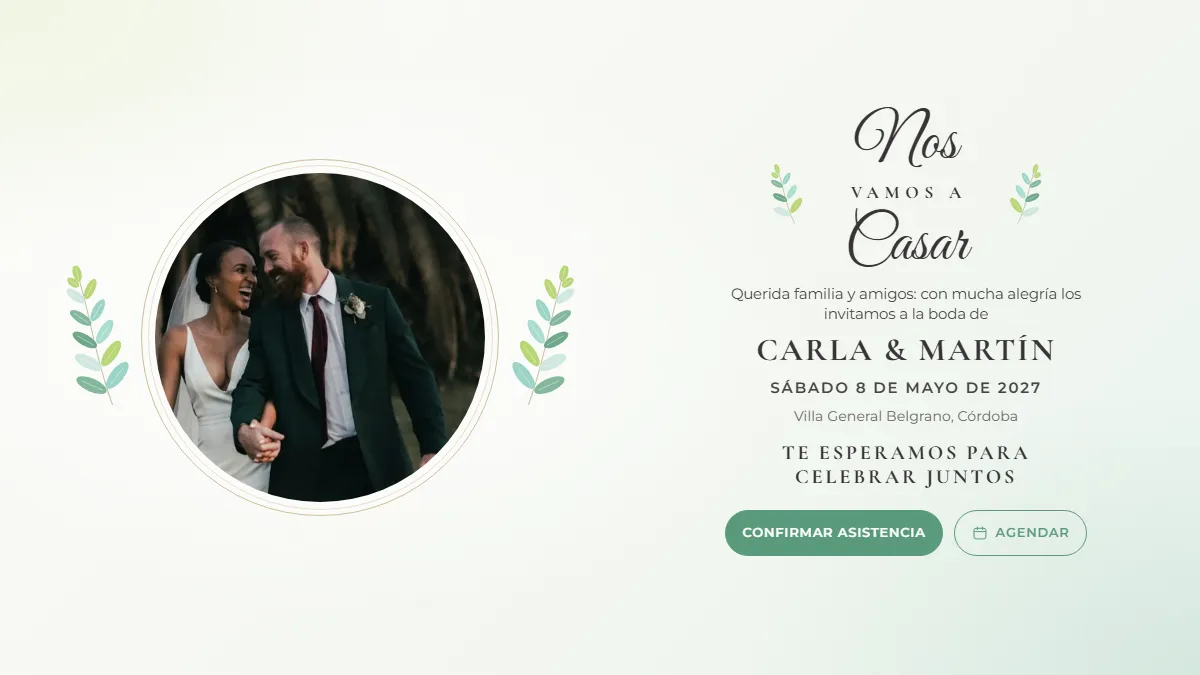
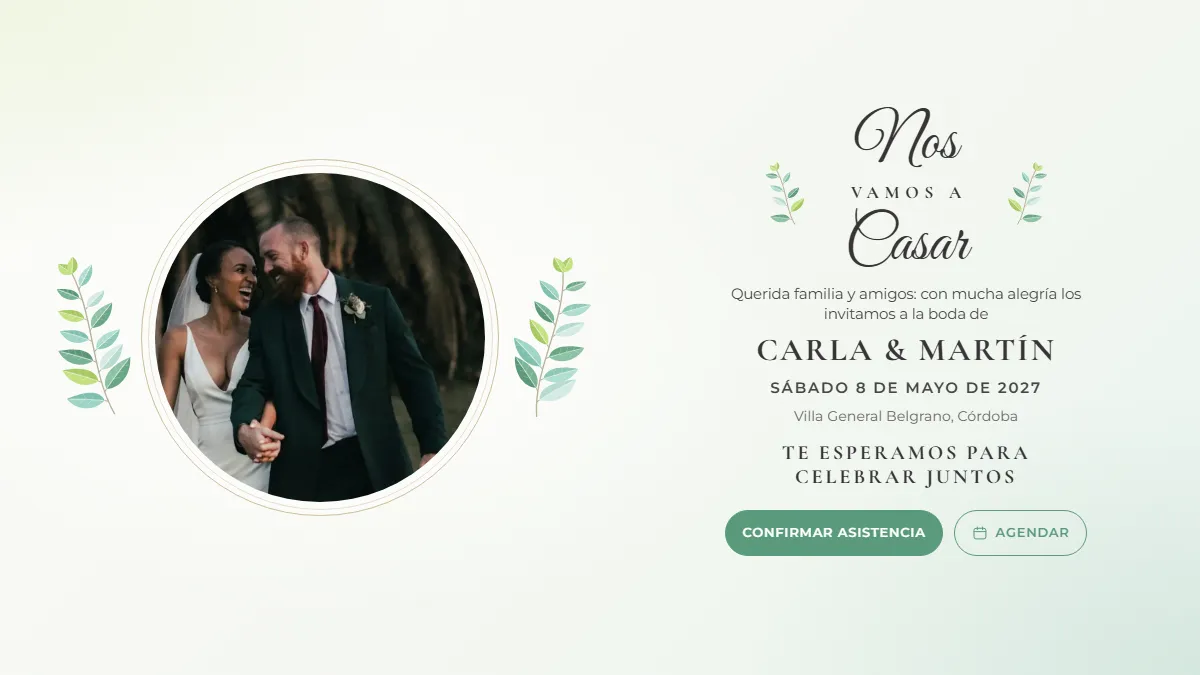
Círculo Botánico: hojas más naturales
Las hojas eran óvalos lisos en pares exactos. Ahora tienen punta y base angosta, dos
tonos partidos por la nervadura y nervaduras finas; van alternadas sobre un tallo curvo,
con tamaños e inclinaciones variadas y un brote abierto en la punta. Hay dos ramas
grandes distintas, así la de la derecha no es el espejo exacto de la izquierda.

diff --git a/modelos/botanico/index.html b/modelos/botanico/index.html
@@ -65,8 +65,9 @@
       <path d="M34 42l2 4M52 36l1 4M24 70l3 3M62 66l2 2M46 24l1 4M30 90l-3 2M58 90l3 1M20 48l-3 1"/>
     </symbol>
     <!-- Ramitos de hojas planas y esquinas doradas -->
-    <symbol id="ramito-grande" viewBox="0 0 120 180"><path d="M63,176 C56,108 64,62.99999999999999 60,10" stroke="#c7c0a8" stroke-width="1.3" fill="none" stroke-linecap="round"/><g transform="translate(59.8 159.1) rotate(218)"><ellipse cx="20" cy="0" rx="20" ry="8.1" fill="#84b89c"/><path d="M4.8,0 L32.8,0" stroke="#ffffff" stroke-opacity=".5" stroke-width=".9"/></g><g transform="translate(61.8 155.1) rotate(-38)"><ellipse cx="20" cy="0" rx="20" ry="8.1" fill="#9bd3c7"/><path d="M4.8,0 L32.8,0" stroke="#ffffff" stroke-opacity=".5" stroke-width=".9"/></g><g transform="translate(60.9 131) rotate(221)"><ellipse cx="18.4" cy="0" rx="18.4" ry="7.4" fill="#cfe7df"/><path d="M4.4,0 L30.2,0" stroke="#ffffff" stroke-opacity=".5" stroke-width=".9"/></g><g transform="translate(62.9 127) rotate(-41)"><ellipse cx="18.4" cy="0" rx="18.4" ry="7.4" fill="#b8d676"/><path d="M4.4,0 L30.2,0" stroke="#ffffff" stroke-opacity=".5" stroke-width=".9"/></g><g transform="translate(61.5 102.8) rotate(224)"><ellipse cx="16.8" cy="0" rx="16.8" ry="6.8" fill="#6fa889"/><path d="M4,0 L27.5,0" stroke="#ffffff" stroke-opacity=".5" stroke-width=".9"/></g><g transform="translate(63.5 98.8) rotate(-44)"><ellipse cx="16.8" cy="0" rx="16.8" ry="6.8" fill="#a9dccf"/><path d="M4,0 L27.5,0" stroke="#ffffff" stroke-opacity=".5" stroke-width=".9"/></g><g transform="translate(61.3 74.7) rotate(227)"><ellipse cx="15.1" cy="0" rx="15.1" ry="6.1" fill="#84b89c"/><path d="M3.6,0 L24.8,0" stroke="#ffffff" stroke-opacity=".5" stroke-width=".9"/></g><g transform="translate(63.3 70.7) rotate(-47)"><ellipse cx="15.1" cy="0" rx="15.1" ry="6.1" fill="#9bd3c7"/><path d="M3.6,0 L24.8,0" stroke="#ffffff" stroke-opacity=".5" stroke-width=".9"/></g><g transform="translate(60.4 46.5) rotate(230)"><ellipse cx="13.5" cy="0" rx="13.5" ry="5.5" fill="#cfe7df"/><path d="M3.2,0 L22.1,0" stroke="#ffffff" stroke-opacity=".5" stroke-width=".9"/></g><g transform="translate(62.4 42.5) rotate(-50)"><ellipse cx="13.5" cy="0" rx="13.5" ry="5.5" fill="#b8d676"/><path d="M3.2,0 L22.1,0" stroke="#ffffff" stroke-opacity=".5" stroke-width=".9"/></g><g transform="translate(60 20) rotate(-90)"><ellipse cx="10.5" cy="0" rx="10.5" ry="5.3" fill="#b8d676"/><path d="M2.5,0 L17.2,0" stroke="#ffffff" stroke-opacity=".5" stroke-width=".9"/></g><g transform="translate(58 26) rotate(230)"><ellipse cx="8.4" cy="0" rx="8.4" ry="4.7" fill="#b8d676"/><path d="M2,0 L13.8,0" stroke="#ffffff" stroke-opacity=".5" stroke-width=".9"/></g></symbol>
-    <symbol id="ramito-chico" viewBox="0 0 90 110"><path d="M48,106 C41,66 49,38.5 45,10" stroke="#c7c0a8" stroke-width="1.3" fill="none" stroke-linecap="round"/><g transform="translate(45.3 91.5) rotate(218)"><ellipse cx="14.8" cy="0" rx="14.8" ry="6" fill="#cfe7df"/><path d="M3.6,0 L24.3,0" stroke="#ffffff" stroke-opacity=".5" stroke-width=".9"/></g><g transform="translate(47.3 87.5) rotate(-38)"><ellipse cx="14.8" cy="0" rx="14.8" ry="6" fill="#b8d676"/><path d="M3.6,0 L24.3,0" stroke="#ffffff" stroke-opacity=".5" stroke-width=".9"/></g><g transform="translate(46.5 67.4) rotate(221)"><ellipse cx="12.8" cy="0" rx="12.8" ry="5.2" fill="#6fa889"/><path d="M3.1,0 L21.1,0" stroke="#ffffff" stroke-opacity=".5" stroke-width=".9"/></g><g transform="translate(48.5 63.4) rotate(-41)"><ellipse cx="12.8" cy="0" rx="12.8" ry="5.2" fill="#a9dccf"/><path d="M3.1,0 L21.1,0" stroke="#ffffff" stroke-opacity=".5" stroke-width=".9"/></g><g transform="translate(45.9 43.3) rotate(224)"><ellipse cx="10.9" cy="0" rx="10.9" ry="4.4" fill="#84b89c"/><path d="M2.6,0 L17.8,0" stroke="#ffffff" stroke-opacity=".5" stroke-width=".9"/></g><g transform="translate(47.9 39.3) rotate(-44)"><ellipse cx="10.9" cy="0" rx="10.9" ry="4.4" fill="#9bd3c7"/><path d="M2.6,0 L17.8,0" stroke="#ffffff" stroke-opacity=".5" stroke-width=".9"/></g><g transform="translate(45 20) rotate(-90)"><ellipse cx="8" cy="0" rx="8" ry="4" fill="#b8d676"/><path d="M1.9,0 L13.1,0" stroke="#ffffff" stroke-opacity=".5" stroke-width=".9"/></g><g transform="translate(43 26) rotate(230)"><ellipse cx="6.4" cy="0" rx="6.4" ry="3.6" fill="#b8d676"/><path d="M1.5,0 L10.5,0" stroke="#ffffff" stroke-opacity=".5" stroke-width=".9"/></g></symbol>
+    <symbol id="ramito-grande" viewBox="0 0 120 180"><path d="M66,178 C52,130 70,70 58,18" stroke="#b9b39a" stroke-width="1.5" fill="none" stroke-linecap="round"/><path d="M62.7,163.3 L59,161.6" stroke="#b9b39a" stroke-width="1.1"/><g transform="translate(59 161.6) rotate(-156)"><path d="M0,0 C7.4,-11.8 25.6,-18 41.3,-5.6 L0,0Z" fill="#9fd4c4"/><path d="M0,0 C7.4,11.8 25.6,5 41.3,-5.6 L0,0Z" fill="#7fbfae"/><path d="M1.7,0 Q20.7,-1.7 38,-5.1" stroke="#ffffff" stroke-opacity=".55" stroke-width="1" fill="none"/><path d="M12.4,-0.5 l5,-6.2 M12.4,-0.5 l5,5.6 M20.7,-1.4 l5,-6.2 M20.7,-1.4 l5,5.6 M28.9,-2.8 l5,-6.2 M28.9,-2.8 l5,5.6" stroke="#ffffff" stroke-opacity=".28" stroke-width=".7" fill="none"/></g><path d="M61.3,152.4 L64.1,149.6" stroke="#b9b39a" stroke-width="1.1"/><g transform="translate(64.1 149.6) rotate(-45.7)"><path d="M0,0 C7.8,-12.3 26.8,-8.2 43.3,4.8 L0,0Z" fill="#8cc2a2"/><path d="M0,0 C7.8,12.3 26.8,15.9 43.3,4.8 L0,0Z" fill="#6aa684"/><path d="M1.7,0 Q21.6,1.4 39.8,4.3" stroke="#ffffff" stroke-opacity=".55" stroke-width="1" fill="none"/><path d="M13,0.4 l5.2,-6.5 M13,0.4 l5.2,5.9 M21.6,1.2 l5.2,-6.5 M21.6,1.2 l5.2,5.9 M30.3,2.3 l5.2,-6.5 M30.3,2.3 l5.2,5.9" stroke="#ffffff" stroke-opacity=".28" stroke-width=".7" fill="none"/></g><path d="M60.6,141.4 L57.4,139" stroke="#b9b39a" stroke-width="1.1"/><g transform="translate(57.4 139) rotate(-143.8)"><path d="M0,0 C7.3,-11.6 25.2,-16.4 40.7,-4.2 L0,0Z" fill="#c3e07f"/><path d="M0,0 C7.3,11.6 25.2,6.3 40.7,-4.2 L0,0Z" fill="#a6c962"/><path d="M1.6,0 Q20.4,-1.3 37.5,-3.8" stroke="#ffffff" stroke-opacity=".55" stroke-width="1" fill="none"/><path d="M12.2,-0.4 l4.9,-6.1 M12.2,-0.4 l4.9,5.5 M20.4,-1.1 l4.9,-6.1 M20.4,-1.1 l4.9,5.5 M28.5,-2.1 l4.9,-6.1 M28.5,-2.1 l4.9,5.5" stroke="#ffffff" stroke-opacity=".28" stroke-width=".7" fill="none"/></g><path d="M60.4,130.1 L63.4,127.5" stroke="#b9b39a" stroke-width="1.1"/><g transform="translate(63.4 127.5) rotate(-39.6)"><path d="M0,0 C6.5,-10.4 22.6,-8.3 36.4,2.6 L0,0Z" fill="#d4ebe3"/><path d="M0,0 C6.5,10.4 22.6,11.9 36.4,2.6 L0,0Z" fill="#b5dacd"/><path d="M1.5,0 Q18.2,0.8 33.5,2.3" stroke="#ffffff" stroke-opacity=".55" stroke-width="1" fill="none"/><path d="M10.9,0.2 l4.4,-5.4 M10.9,0.2 l4.4,4.9 M18.2,0.6 l4.4,-5.4 M18.2,0.6 l4.4,4.9 M25.5,1.3 l4.4,-5.4 M25.5,1.3 l4.4,4.9" stroke="#ffffff" stroke-opacity=".28" stroke-width=".7" fill="none"/></g><path d="M60.5,118.6 L57.3,116.2" stroke="#b9b39a" stroke-width="1.1"/><g transform="translate(57.3 116.2) rotate(-143.4)"><path d="M0,0 C7.1,-11.2 24.4,-16.7 39.4,-4.9 L0,0Z" fill="#79b394"/><path d="M0,0 C7.1,11.2 24.4,5.3 39.4,-4.9 L0,0Z" fill="#5c9878"/><path d="M1.6,0 Q19.7,-1.5 36.2,-4.4" stroke="#ffffff" stroke-opacity=".55" stroke-width="1" fill="none"/><path d="M11.8,-0.4 l4.7,-5.9 M11.8,-0.4 l4.7,5.3 M19.7,-1.2 l4.7,-5.9 M19.7,-1.2 l4.7,5.3 M27.5,-2.4 l4.7,-5.9 M27.5,-2.4 l4.7,5.3" stroke="#ffffff" stroke-opacity=".28" stroke-width=".7" fill="none"/></g><path d="M60.9,107 L64.2,104.7" stroke="#b9b39a" stroke-width="1.1"/><g transform="translate(64.2 104.7) rotate(-34.4)"><path d="M0,0 C5.9,-9.4 20.5,-5.3 33,4.6 L0,0Z" fill="#b0ddd0"/><path d="M0,0 C5.9,9.4 20.5,13.1 33,4.6 L0,0Z" fill="#8ec7b6"/><path d="M1.3,0 Q16.5,1.4 30.4,4.1" stroke="#ffffff" stroke-opacity=".55" stroke-width="1" fill="none"/><path d="M9.9,0.4 l4,-4.9 M9.9,0.4 l4,4.5 M16.5,1.1 l4,-4.9 M16.5,1.1 l4,4.5 M23.1,2.2 l4,-4.9 M23.1,2.2 l4,4.5" stroke="#ffffff" stroke-opacity=".28" stroke-width=".7" fill="none"/></g><path d="M61.4,95.3 L58.3,92.8" stroke="#b9b39a" stroke-width="1.1"/><g transform="translate(58.3 92.8) rotate(-141.1)"><path d="M0,0 C5.9,-9.4 20.4,-14.6 32.9,-4.8 L0,0Z" fill="#9fd4c4"/><path d="M0,0 C5.9,9.4 20.4,3.7 32.9,-4.8 L0,0Z" fill="#7fbfae"/><path d="M1.3,0 Q16.5,-1.4 30.3,-4.3" stroke="#ffffff" stroke-opacity=".55" stroke-width="1" fill="none"/><path d="M9.9,-0.4 l4,-4.9 M9.9,-0.4 l4,4.5 M16.5,-1.2 l4,-4.9 M16.5,-1.2 l4,4.5 M23,-2.3 l4,-4.9 M23,-2.3 l4,4.5" stroke="#ffffff" stroke-opacity=".28" stroke-width=".7" fill="none"/></g><path d="M61.9,83.6 L64.9,80.8" stroke="#b9b39a" stroke-width="1.1"/><g transform="translate(64.9 80.8) rotate(-43)"><path d="M0,0 C6.4,-10.1 21.9,-7.1 35.3,3.4 L0,0Z" fill="#8cc2a2"/><path d="M0,0 C6.4,10.1 21.9,12.5 35.3,3.4 L0,0Z" fill="#6aa684"/><path d="M1.4,0 Q17.7,1 32.5,3.1" stroke="#ffffff" stroke-opacity=".55" stroke-width="1" fill="none"/><path d="M10.6,0.3 l4.2,-5.3 M10.6,0.3 l4.2,4.8 M17.7,0.9 l4.2,-5.3 M17.7,0.9 l4.2,4.8 M24.7,1.7 l4.2,-5.3 M24.7,1.7 l4.2,4.8" stroke="#ffffff" stroke-opacity=".28" stroke-width=".7" fill="none"/></g><path d="M62.3,71.8 L59.1,69.4" stroke="#b9b39a" stroke-width="1.1"/><g transform="translate(59.1 69.4) rotate(-143.5)"><path d="M0,0 C5.4,-8.6 18.6,-12.3 30,-3.3 L0,0Z" fill="#c3e07f"/><path d="M0,0 C5.4,8.6 18.6,4.5 30,-3.3 L0,0Z" fill="#a6c962"/><path d="M1.2,0 Q15,-1 27.6,-3" stroke="#ffffff" stroke-opacity=".55" stroke-width="1" fill="none"/><path d="M9,-0.3 l3.6,-4.5 M9,-0.3 l3.6,4.1 M15,-0.8 l3.6,-4.5 M15,-0.8 l3.6,4.1 M21,-1.6 l3.6,-4.5 M21,-1.6 l3.6,4.1" stroke="#ffffff" stroke-opacity=".28" stroke-width=".7" fill="none"/></g><path d="M62.4,60.1 L65.5,57.6" stroke="#b9b39a" stroke-width="1.1"/><g transform="translate(65.5 57.6) rotate(-38.9)"><path d="M0,0 C4.7,-7.5 16.2,-4.3 26.1,3.6 L0,0Z" fill="#d4ebe3"/><path d="M0,0 C4.7,7.5 16.2,10.3 26.1,3.6 L0,0Z" fill="#b5dacd"/><path d="M1,0 Q13.1,1.1 24,3.2" stroke="#ffffff" stroke-opacity=".55" stroke-width="1" fill="none"/><path d="M7.8,0.3 l3.1,-3.9 M7.8,0.3 l3.1,3.5 M13.1,0.9 l3.1,-3.9 M13.1,0.9 l3.1,3.5 M18.3,1.7 l3.1,-3.9 M18.3,1.7 l3.1,3.5" stroke="#ffffff" stroke-opacity=".28" stroke-width=".7" fill="none"/></g><path d="M62,48.5 L59.1,45.8" stroke="#b9b39a" stroke-width="1.1"/><g transform="translate(59.1 45.8) rotate(-137.1)"><path d="M0,0 C4.7,-7.5 16.3,-11.2 26.3,-3.4 L0,0Z" fill="#79b394"/><path d="M0,0 C4.7,7.5 16.3,3.4 26.3,-3.4 L0,0Z" fill="#5c9878"/><path d="M1.1,0 Q13.2,-1 24.2,-3" stroke="#ffffff" stroke-opacity=".55" stroke-width="1" fill="none"/><path d="M7.9,-0.3 l3.2,-3.9 M7.9,-0.3 l3.2,3.6 M13.2,-0.8 l3.2,-3.9 M13.2,-0.8 l3.2,3.6 M18.4,-1.7 l3.2,-3.9 M18.4,-1.7 l3.2,3.6" stroke="#ffffff" stroke-opacity=".28" stroke-width=".7" fill="none"/></g><path d="M61.1,37 L63.4,33.7" stroke="#b9b39a" stroke-width="1.1"/><g transform="translate(63.4 33.7) rotate(-55.5)"><path d="M0,0 C4.8,-7.7 16.7,-4.8 26.9,3.2 L0,0Z" fill="#b0ddd0"/><path d="M0,0 C4.8,7.7 16.7,10.2 26.9,3.2 L0,0Z" fill="#8ec7b6"/><path d="M1.1,0 Q13.4,1 24.7,2.9" stroke="#ffffff" stroke-opacity=".55" stroke-width="1" fill="none"/><path d="M8.1,0.3 l3.2,-4 M8.1,0.3 l3.2,3.7 M13.4,0.8 l3.2,-4 M13.4,0.8 l3.2,3.7 M18.8,1.6 l3.2,-4 M18.8,1.6 l3.2,3.7" stroke="#ffffff" stroke-opacity=".28" stroke-width=".7" fill="none"/></g><g transform="translate(58 18) rotate(-125)"><path d="M0,0 C3.3,-7.9 11.4,-10.5 18.4,-2.2 L0,0Z" fill="#c3e07f"/><path d="M0,0 C3.3,7.9 11.4,4.9 18.4,-2.2 L0,0Z" fill="#a6c962"/><path d="M0.7,0 Q9.2,-0.7 16.9,-2" stroke="#ffffff" stroke-opacity=".55" stroke-width="1" fill="none"/><path d="M5.5,-0.2 l2.2,-4.1 M5.5,-0.2 l2.2,3.8 M9.2,-0.6 l2.2,-4.1 M9.2,-0.6 l2.2,3.8 M12.9,-1.1 l2.2,-4.1 M12.9,-1.1 l2.2,3.8" stroke="#ffffff" stroke-opacity=".28" stroke-width=".7" fill="none"/></g><g transform="translate(58 18) rotate(-81)"><path d="M0,0 C3.3,-7.9 11.4,-6 18.4,2.3 L0,0Z" fill="#c3e07f"/><path d="M0,0 C3.3,7.9 11.4,9.4 18.4,2.3 L0,0Z" fill="#a6c962"/><path d="M0.7,0 Q9.2,0.7 16.9,2" stroke="#ffffff" stroke-opacity=".55" stroke-width="1" fill="none"/><path d="M5.5,0.2 l2.2,-4.1 M5.5,0.2 l2.2,3.8 M9.2,0.6 l2.2,-4.1 M9.2,0.6 l2.2,3.8 M12.9,1.1 l2.2,-4.1 M12.9,1.1 l2.2,3.8" stroke="#ffffff" stroke-opacity=".28" stroke-width=".7" fill="none"/></g></symbol>
+    <symbol id="ramito-grande-2" viewBox="0 0 120 180"><path d="M54,178 C70,128 48,74 64,18" stroke="#b9b39a" stroke-width="1.5" fill="none" stroke-linecap="round"/><path d="M57.7,162.9 L55.2,159.8" stroke="#b9b39a" stroke-width="1.1"/><g transform="translate(55.2 159.8) rotate(-128.9)"><path d="M0,0 C8.2,-12.4 28.2,-19.4 45.5,-6.4 L0,0Z" fill="#d4ebe3"/><path d="M0,0 C8.2,12.4 28.2,4.9 45.5,-6.4 L0,0Z" fill="#b5dacd"/><path d="M1.8,0 Q22.7,-1.9 41.8,-5.7" stroke="#ffffff" stroke-opacity=".55" stroke-width="1" fill="none"/><path d="M13.6,-0.6 l5.5,-6.5 M13.6,-0.6 l5.5,5.9 M22.7,-1.6 l5.5,-6.5 M22.7,-1.6 l5.5,5.9 M31.8,-3.1 l5.5,-6.5 M31.8,-3.1 l5.5,5.9" stroke="#ffffff" stroke-opacity=".28" stroke-width=".7" fill="none"/></g><path d="M59.4,150.9 L62.1,148" stroke="#b9b39a" stroke-width="1.1"/><g transform="translate(62.1 148) rotate(-46.4)"><path d="M0,0 C7.5,-11.4 25.8,-8.9 41.6,3 L0,0Z" fill="#79b394"/><path d="M0,0 C7.5,11.4 25.8,13.3 41.6,3 L0,0Z" fill="#5c9878"/><path d="M1.7,0 Q20.8,0.9 38.2,2.7" stroke="#ffffff" stroke-opacity=".55" stroke-width="1" fill="none"/><path d="M12.5,0.3 l5,-6 M12.5,0.3 l5,5.4 M20.8,0.8 l5,-6 M20.8,0.8 l5,5.4 M29.1,1.5 l5,-6 M29.1,1.5 l5,5.4" stroke="#ffffff" stroke-opacity=".28" stroke-width=".7" fill="none"/></g><path d="M60.1,138.8 L56.8,136.5" stroke="#b9b39a" stroke-width="1.1"/><g transform="translate(56.8 136.5) rotate(-144.4)"><path d="M0,0 C7.1,-10.8 24.6,-15.5 39.7,-4.1 L0,0Z" fill="#b0ddd0"/><path d="M0,0 C7.1,10.8 24.6,5.7 39.7,-4.1 L0,0Z" fill="#8ec7b6"/><path d="M1.6,0 Q19.8,-1.2 36.5,-3.7" stroke="#ffffff" stroke-opacity=".55" stroke-width="1" fill="none"/><path d="M11.9,-0.4 l4.8,-5.7 M11.9,-0.4 l4.8,5.2 M19.8,-1 l4.8,-5.7 M19.8,-1 l4.8,5.2 M27.8,-2 l4.8,-5.7 M27.8,-2 l4.8,5.2" stroke="#ffffff" stroke-opacity=".28" stroke-width=".7" fill="none"/></g><path d="M60.1,126.6 L63.2,124.1" stroke="#b9b39a" stroke-width="1.1"/><g transform="translate(63.2 124.1) rotate(-39.8)"><path d="M0,0 C7.7,-11.7 26.4,-7.6 42.6,4.6 L0,0Z" fill="#9fd4c4"/><path d="M0,0 C7.7,11.7 26.4,15.2 42.6,4.6 L0,0Z" fill="#7fbfae"/><path d="M1.7,0 Q21.3,1.4 39.2,4.2" stroke="#ffffff" stroke-opacity=".55" stroke-width="1" fill="none"/><path d="M12.8,0.4 l5.1,-6.1 M12.8,0.4 l5.1,5.5 M21.3,1.2 l5.1,-6.1 M21.3,1.2 l5.1,5.5 M29.8,2.3 l5.1,-6.1 M29.8,2.3 l5.1,5.5" stroke="#ffffff" stroke-opacity=".28" stroke-width=".7" fill="none"/></g><path d="M59.7,114.3 L56.5,112" stroke="#b9b39a" stroke-width="1.1"/><g transform="translate(56.5 112) rotate(-144.4)"><path d="M0,0 C7.2,-10.9 24.7,-16.1 39.8,-4.8 L0,0Z" fill="#8cc2a2"/><path d="M0,0 C7.2,10.9 24.7,5.1 39.8,-4.8 L0,0Z" fill="#6aa684"/><path d="M1.6,0 Q19.9,-1.4 36.6,-4.3" stroke="#ffffff" stroke-opacity=".55" stroke-width="1" fill="none"/><path d="M11.9,-0.4 l4.8,-5.7 M11.9,-0.4 l4.8,5.2 M19.9,-1.2 l4.8,-5.7 M19.9,-1.2 l4.8,5.2 M27.8,-2.3 l4.8,-5.7 M27.8,-2.3 l4.8,5.2" stroke="#ffffff" stroke-opacity=".28" stroke-width=".7" fill="none"/></g><path d="M59.1,101.9 L61.8,98.9" stroke="#b9b39a" stroke-width="1.1"/><g transform="translate(61.8 98.9) rotate(-47)"><path d="M0,0 C6.1,-9.3 21,-6.6 33.9,3.1 L0,0Z" fill="#c3e07f"/><path d="M0,0 C6.1,9.3 21,11.5 33.9,3.1 L0,0Z" fill="#a6c962"/><path d="M1.4,0 Q17,0.9 31.2,2.8" stroke="#ffffff" stroke-opacity=".55" stroke-width="1" fill="none"/><path d="M10.2,0.3 l4.1,-4.9 M10.2,0.3 l4.1,4.4 M17,0.8 l4.1,-4.9 M17,0.8 l4.1,4.4 M23.7,1.5 l4.1,-4.9 M23.7,1.5 l4.1,4.4" stroke="#ffffff" stroke-opacity=".28" stroke-width=".7" fill="none"/></g><path d="M58.4,89.3 L55.6,86.5" stroke="#b9b39a" stroke-width="1.1"/><g transform="translate(55.6 86.5) rotate(-135.7)"><path d="M0,0 C6.2,-9.5 21.4,-14.6 34.6,-4.6 L0,0Z" fill="#d4ebe3"/><path d="M0,0 C6.2,9.5 21.4,3.9 34.6,-4.6 L0,0Z" fill="#b5dacd"/><path d="M1.4,0 Q17.3,-1.4 31.8,-4.2" stroke="#ffffff" stroke-opacity=".55" stroke-width="1" fill="none"/><path d="M10.4,-0.4 l4.2,-5 M10.4,-0.4 l4.2,4.5 M17.3,-1.2 l4.2,-5 M17.3,-1.2 l4.2,4.5 M24.2,-2.3 l4.2,-5 M24.2,-2.3 l4.2,4.5" stroke="#ffffff" stroke-opacity=".28" stroke-width=".7" fill="none"/></g><path d="M57.9,76.6 L60.9,74" stroke="#b9b39a" stroke-width="1.1"/><g transform="translate(60.9 74) rotate(-41.5)"><path d="M0,0 C5.6,-8.5 19.3,-5 31.1,3.9 L0,0Z" fill="#79b394"/><path d="M0,0 C5.6,8.5 19.3,11.6 31.1,3.9 L0,0Z" fill="#5c9878"/><path d="M1.2,0 Q15.6,1.2 28.6,3.5" stroke="#ffffff" stroke-opacity=".55" stroke-width="1" fill="none"/><path d="M9.3,0.4 l3.7,-4.5 M9.3,0.4 l3.7,4.1 M15.6,1 l3.7,-4.5 M15.6,1 l3.7,4.1 M21.8,1.9 l3.7,-4.5 M21.8,1.9 l3.7,4.1" stroke="#ffffff" stroke-opacity=".28" stroke-width=".7" fill="none"/></g><path d="M57.8,63.9 L54.6,61.6" stroke="#b9b39a" stroke-width="1.1"/><g transform="translate(54.6 61.6) rotate(-145.1)"><path d="M0,0 C6,-9 20.5,-12.7 33.1,-3.2 L0,0Z" fill="#b0ddd0"/><path d="M0,0 C6,9 20.5,5 33.1,-3.2 L0,0Z" fill="#8ec7b6"/><path d="M1.3,0 Q16.5,-1 30.4,-2.9" stroke="#ffffff" stroke-opacity=".55" stroke-width="1" fill="none"/><path d="M9.9,-0.3 l4,-4.7 M9.9,-0.3 l4,4.3 M16.5,-0.8 l4,-4.7 M16.5,-0.8 l4,4.3 M23.2,-1.6 l4,-4.7 M23.2,-1.6 l4,4.3" stroke="#ffffff" stroke-opacity=".28" stroke-width=".7" fill="none"/></g><path d="M58.4,51 L61.6,48.6" stroke="#b9b39a" stroke-width="1.1"/><g transform="translate(61.6 48.6) rotate(-36.8)"><path d="M0,0 C5.4,-8.1 18.5,-6.1 29.8,2.4 L0,0Z" fill="#9fd4c4"/><path d="M0,0 C5.4,8.1 18.5,9.8 29.8,2.4 L0,0Z" fill="#7fbfae"/><path d="M1.2,0 Q14.9,0.7 27.4,2.2" stroke="#ffffff" stroke-opacity=".55" stroke-width="1" fill="none"/><path d="M8.9,0.2 l3.6,-4.3 M8.9,0.2 l3.6,3.9 M14.9,0.6 l3.6,-4.3 M14.9,0.6 l3.6,3.9 M20.8,1.2 l3.6,-4.3 M20.8,1.2 l3.6,3.9" stroke="#ffffff" stroke-opacity=".28" stroke-width=".7" fill="none"/></g><path d="M59.8,38.1 L56.7,35.5" stroke="#b9b39a" stroke-width="1.1"/><g transform="translate(56.7 35.5) rotate(-139.6)"><path d="M0,0 C4.3,-6.6 14.9,-9.5 24,-2.6 L0,0Z" fill="#8cc2a2"/><path d="M0,0 C4.3,6.6 14.9,3.3 24,-2.6 L0,0Z" fill="#6aa684"/><path d="M1,0 Q12,-0.8 22.1,-2.4" stroke="#ffffff" stroke-opacity=".55" stroke-width="1" fill="none"/><path d="M7.2,-0.2 l2.9,-3.4 M7.2,-0.2 l2.9,3.1 M12,-0.7 l2.9,-3.4 M12,-0.7 l2.9,3.1 M16.8,-1.3 l2.9,-3.4 M16.8,-1.3 l2.9,3.1" stroke="#ffffff" stroke-opacity=".28" stroke-width=".7" fill="none"/></g><g transform="translate(64 18) rotate(-96.1)"><path d="M0,0 C3.5,-7.9 11.9,-10.5 19.2,-2.2 L0,0Z" fill="#c3e07f"/><path d="M0,0 C3.5,7.9 11.9,4.9 19.2,-2.2 L0,0Z" fill="#a6c962"/><path d="M0.8,0 Q9.6,-0.7 17.7,-2" stroke="#ffffff" stroke-opacity=".55" stroke-width="1" fill="none"/><path d="M5.8,-0.2 l2.3,-4.1 M5.8,-0.2 l2.3,3.8 M9.6,-0.6 l2.3,-4.1 M9.6,-0.6 l2.3,3.8 M13.4,-1.1 l2.3,-4.1 M13.4,-1.1 l2.3,3.8" stroke="#ffffff" stroke-opacity=".28" stroke-width=".7" fill="none"/></g><g transform="translate(64 18) rotate(-52.1)"><path d="M0,0 C3.5,-7.9 11.9,-6 19.2,2.3 L0,0Z" fill="#c3e07f"/><path d="M0,0 C3.5,7.9 11.9,9.4 19.2,2.3 L0,0Z" fill="#a6c962"/><path d="M0.8,0 Q9.6,0.7 17.7,2" stroke="#ffffff" stroke-opacity=".55" stroke-width="1" fill="none"/><path d="M5.8,0.2 l2.3,-4.1 M5.8,0.2 l2.3,3.8 M9.6,0.6 l2.3,-4.1 M9.6,0.6 l2.3,3.8 M13.4,1.1 l2.3,-4.1 M13.4,1.1 l2.3,3.8" stroke="#ffffff" stroke-opacity=".28" stroke-width=".7" fill="none"/></g></symbol>
+    <symbol id="ramito-chico" viewBox="0 0 90 110"><path d="M48,108 C40,80 52,50 44,14" stroke="#b9b39a" stroke-width="1.5" fill="none" stroke-linecap="round"/><path d="M46.2,99.5 L42.7,97.5" stroke="#b9b39a" stroke-width="1.1"/><g transform="translate(42.7 97.5) rotate(-149)"><path d="M0,0 C5.9,-9 20.2,-14.1 32.6,-4.6 L0,0Z" fill="#8cc2a2"/><path d="M0,0 C5.9,9 20.2,3.6 32.6,-4.6 L0,0Z" fill="#6aa684"/><path d="M1.3,0 Q16.3,-1.4 30,-4.1" stroke="#ffffff" stroke-opacity=".55" stroke-width="1" fill="none"/><path d="M9.8,-0.4 l3.9,-4.7 M9.8,-0.4 l3.9,4.3 M16.3,-1.2 l3.9,-4.7 M16.3,-1.2 l3.9,4.3 M22.8,-2.3 l3.9,-4.7 M22.8,-2.3 l3.9,4.3" stroke="#ffffff" stroke-opacity=".28" stroke-width=".7" fill="none"/></g><path d="M45.2,88.3 L48.4,85.9" stroke="#b9b39a" stroke-width="1.1"/><g transform="translate(48.4 85.9) rotate(-36.9)"><path d="M0,0 C5.4,-8.4 18.7,-5 30.1,3.7 L0,0Z" fill="#c3e07f"/><path d="M0,0 C5.4,8.4 18.7,11.3 30.1,3.7 L0,0Z" fill="#a6c962"/><path d="M1.2,0 Q15,1.1 27.7,3.4" stroke="#ffffff" stroke-opacity=".55" stroke-width="1" fill="none"/><path d="M9,0.3 l3.6,-4.4 M9,0.3 l3.6,4 M15,0.9 l3.6,-4.4 M15,0.9 l3.6,4 M21.1,1.8 l3.6,-4.4 M21.1,1.8 l3.6,4" stroke="#ffffff" stroke-opacity=".28" stroke-width=".7" fill="none"/></g><path d="M45.3,76.8 L42.8,73.6" stroke="#b9b39a" stroke-width="1.1"/><g transform="translate(42.8 73.6) rotate(-127.8)"><path d="M0,0 C4.9,-7.5 16.8,-10.4 27.1,-2.6 L0,0Z" fill="#d4ebe3"/><path d="M0,0 C4.9,7.5 16.8,4.3 27.1,-2.6 L0,0Z" fill="#b5dacd"/><path d="M1.1,0 Q13.5,-0.8 24.9,-2.3" stroke="#ffffff" stroke-opacity=".55" stroke-width="1" fill="none"/><path d="M8.1,-0.2 l3.3,-3.9 M8.1,-0.2 l3.3,3.6 M13.5,-0.6 l3.3,-3.9 M13.5,-0.6 l3.3,3.6 M19,-1.3 l3.3,-3.9 M19,-1.3 l3.3,3.6" stroke="#ffffff" stroke-opacity=".28" stroke-width=".7" fill="none"/></g><path d="M45.9,64.9 L49.3,62.8" stroke="#b9b39a" stroke-width="1.1"/><g transform="translate(49.3 62.8) rotate(-32.2)"><path d="M0,0 C4.6,-7.1 15.8,-5.3 25.5,2.1 L0,0Z" fill="#79b394"/><path d="M0,0 C4.6,7.1 15.8,8.6 25.5,2.1 L0,0Z" fill="#5c9878"/><path d="M1,0 Q12.8,0.6 23.5,1.9" stroke="#ffffff" stroke-opacity=".55" stroke-width="1" fill="none"/><path d="M7.7,0.2 l3.1,-3.7 M7.7,0.2 l3.1,3.4 M12.8,0.5 l3.1,-3.7 M12.8,0.5 l3.1,3.4 M17.9,1 l3.1,-3.7 M17.9,1 l3.1,3.4" stroke="#ffffff" stroke-opacity=".28" stroke-width=".7" fill="none"/></g><path d="M46.7,52.7 L43.9,49.7" stroke="#b9b39a" stroke-width="1.1"/><g transform="translate(43.9 49.7) rotate(-132.8)"><path d="M0,0 C4.1,-6.3 14,-9.4 22.6,-2.9 L0,0Z" fill="#b0ddd0"/><path d="M0,0 C4.1,6.3 14,2.8 22.6,-2.9 L0,0Z" fill="#8ec7b6"/><path d="M0.9,0 Q11.3,-0.9 20.8,-2.6" stroke="#ffffff" stroke-opacity=".55" stroke-width="1" fill="none"/><path d="M6.8,-0.3 l2.7,-3.3 M6.8,-0.3 l2.7,3 M11.3,-0.7 l2.7,-3.3 M11.3,-0.7 l2.7,3 M15.9,-1.4 l2.7,-3.3 M15.9,-1.4 l2.7,3" stroke="#ffffff" stroke-opacity=".28" stroke-width=".7" fill="none"/></g><path d="M46.9,39.9 L49.5,36.9" stroke="#b9b39a" stroke-width="1.1"/><g transform="translate(49.5 36.9) rotate(-48.9)"><path d="M0,0 C3.7,-5.7 12.7,-4 20.4,1.9 L0,0Z" fill="#9fd4c4"/><path d="M0,0 C3.7,5.7 12.7,7.1 20.4,1.9 L0,0Z" fill="#7fbfae"/><path d="M0.8,0 Q10.2,0.6 18.8,1.7" stroke="#ffffff" stroke-opacity=".55" stroke-width="1" fill="none"/><path d="M6.1,0.2 l2.4,-3 M6.1,0.2 l2.4,2.7 M10.2,0.5 l2.4,-3 M10.2,0.5 l2.4,2.7 M14.3,1 l2.4,-3 M14.3,1 l2.4,2.7" stroke="#ffffff" stroke-opacity=".28" stroke-width=".7" fill="none"/></g><path d="M46.1,26.7 L42.7,24.6" stroke="#b9b39a" stroke-width="1.1"/><g transform="translate(42.7 24.6) rotate(-148.8)"><path d="M0,0 C3.7,-5.8 12.9,-8.2 20.8,-2.2 L0,0Z" fill="#8cc2a2"/><path d="M0,0 C3.7,5.8 12.9,3.1 20.8,-2.2 L0,0Z" fill="#6aa684"/><path d="M0.8,0 Q10.4,-0.6 19.1,-1.9" stroke="#ffffff" stroke-opacity=".55" stroke-width="1" fill="none"/><path d="M6.2,-0.2 l2.5,-3 M6.2,-0.2 l2.5,2.8 M10.4,-0.5 l2.5,-3 M10.4,-0.5 l2.5,2.8 M14.6,-1.1 l2.5,-3 M14.6,-1.1 l2.5,2.8" stroke="#ffffff" stroke-opacity=".28" stroke-width=".7" fill="none"/></g><g transform="translate(44 14) rotate(-124.5)"><path d="M0,0 C2.4,-5.7 8.4,-7.6 13.6,-1.6 L0,0Z" fill="#c3e07f"/><path d="M0,0 C2.4,5.7 8.4,3.5 13.6,-1.6 L0,0Z" fill="#a6c962"/><path d="M0.5,0 Q6.8,-0.5 12.5,-1.5" stroke="#ffffff" stroke-opacity=".55" stroke-width="1" fill="none"/><path d="M4.1,-0.1 l1.6,-3 M4.1,-0.1 l1.6,2.7 M6.8,-0.4 l1.6,-3 M6.8,-0.4 l1.6,2.7 M9.5,-0.8 l1.6,-3 M9.5,-0.8 l1.6,2.7" stroke="#ffffff" stroke-opacity=".28" stroke-width=".7" fill="none"/></g><g transform="translate(44 14) rotate(-80.5)"><path d="M0,0 C2.4,-5.7 8.4,-4.3 13.6,1.6 L0,0Z" fill="#c3e07f"/><path d="M0,0 C2.4,5.7 8.4,6.7 13.6,1.6 L0,0Z" fill="#a6c962"/><path d="M0.5,0 Q6.8,0.5 12.5,1.5" stroke="#ffffff" stroke-opacity=".55" stroke-width="1" fill="none"/><path d="M4.1,0.1 l1.6,-3 M4.1,0.1 l1.6,2.7 M6.8,0.4 l1.6,-3 M6.8,0.4 l1.6,2.7 M9.5,0.8 l1.6,-3 M9.5,0.8 l1.6,2.7" stroke="#ffffff" stroke-opacity=".28" stroke-width=".7" fill="none"/></g></symbol>
     <symbol id="esquina" viewBox="0 0 60 60" fill="none" stroke="currentColor" stroke-width="1.2"><path d="M2 46V12L12 2h34"/><path d="M8 40V15l7-7h25" opacity=".55"/></symbol>
     <!-- Divisor ondulado -->
     <symbol id="onda" viewBox="0 0 1440 40" preserveAspectRatio="none"><path d="M0 22C160 42 320 2 480 18S800 42 960 20 1280 0 1440 22V40H0Z"/></symbol>
@@ -86,7 +87,7 @@
         <div class="portada-foto">
           <svg class="ramito ramito-izq" aria-hidden="true"><use href="#ramito-grande"/></svg>
           <figure class="circulo"><img src="fotos/portada.webp" alt="Los novios" fetchpriority="high" /></figure>
-          <svg class="ramito ramito-der" aria-hidden="true"><use href="#ramito-grande"/></svg>
+          <svg class="ramito ramito-der" aria-hidden="true"><use href="#ramito-grande-2"/></svg>
         </div>
         <div class="portada-textos">
           <p class="titulo"><svg class="ramito ramito-titulo-izq" aria-hidden="true"><use href="#ramito-chico"/></svg><svg class="ramito ramito-titulo-der" aria-hidden="true"><use href="#ramito-chico"/></svg><span class="titulo-guion" data-dato="titulo1">Nos</span><span class="titulo-chico" data-dato="titulo2">vamos a</span><span class="titulo-guion" data-dato="titulo3">Casar</span></p>

diff --git a/modelos/botanico/estilo.css b/modelos/botanico/estilo.css
@@ -76,9 +76,9 @@ section{position:relative;padding:72px 18px;max-width:1100px;margin:0 auto;text-
 .circulo{margin:0;width:54cqw;aspect-ratio:1;border-radius:50%;border:1.3px solid var(--ocre);padding:2.2cqw;position:relative;background:var(--crema)}
 .circulo::after{content:"";position:absolute;inset:.9cqw;border-radius:50%;border:1px solid var(--ocre-claro);pointer-events:none}
 .circulo img{width:100%;height:100%;border-radius:50%;object-fit:cover;object-position:50% 30%}
-.portada-foto .ramito{position:absolute;top:50%;width:17cqw;height:25.5cqw;transform:translateY(-50%) rotate(-14deg)}
-.ramito-izq{left:2cqw}
-.ramito-der{right:2cqw;transform:translateY(-50%) scaleX(-1) rotate(-14deg)!important}
+.portada-foto .ramito{position:absolute;top:50%;width:19cqw;height:28.5cqw;transform:translateY(-50%) rotate(-14deg)}
+.ramito-izq{left:.5cqw}
+.ramito-der{right:.5cqw;transform:translateY(-50%) scaleX(-1) rotate(-14deg)!important}
 .titulo .ramito{top:50%;width:13cqw;height:16cqw}
 .ramito-titulo-izq{left:-21cqw;transform:translateY(-50%) rotate(-16deg)}
 .ramito-titulo-der{right:-21cqw;transform:translateY(-50%) scaleX(-1) rotate(-16deg)}
